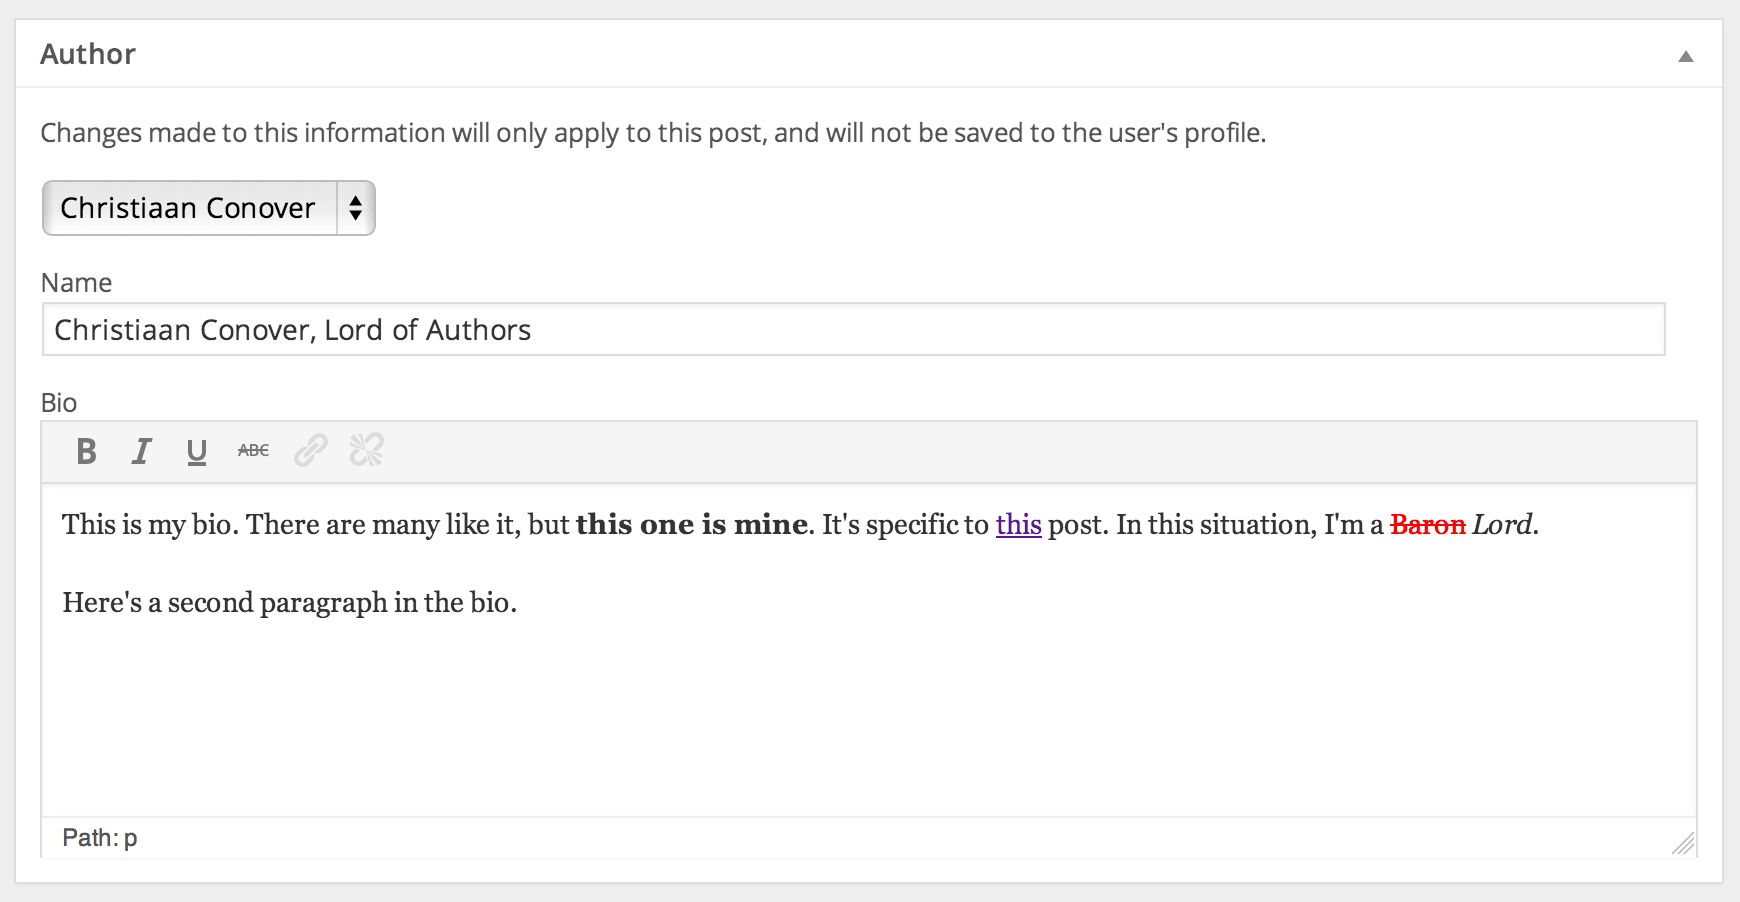
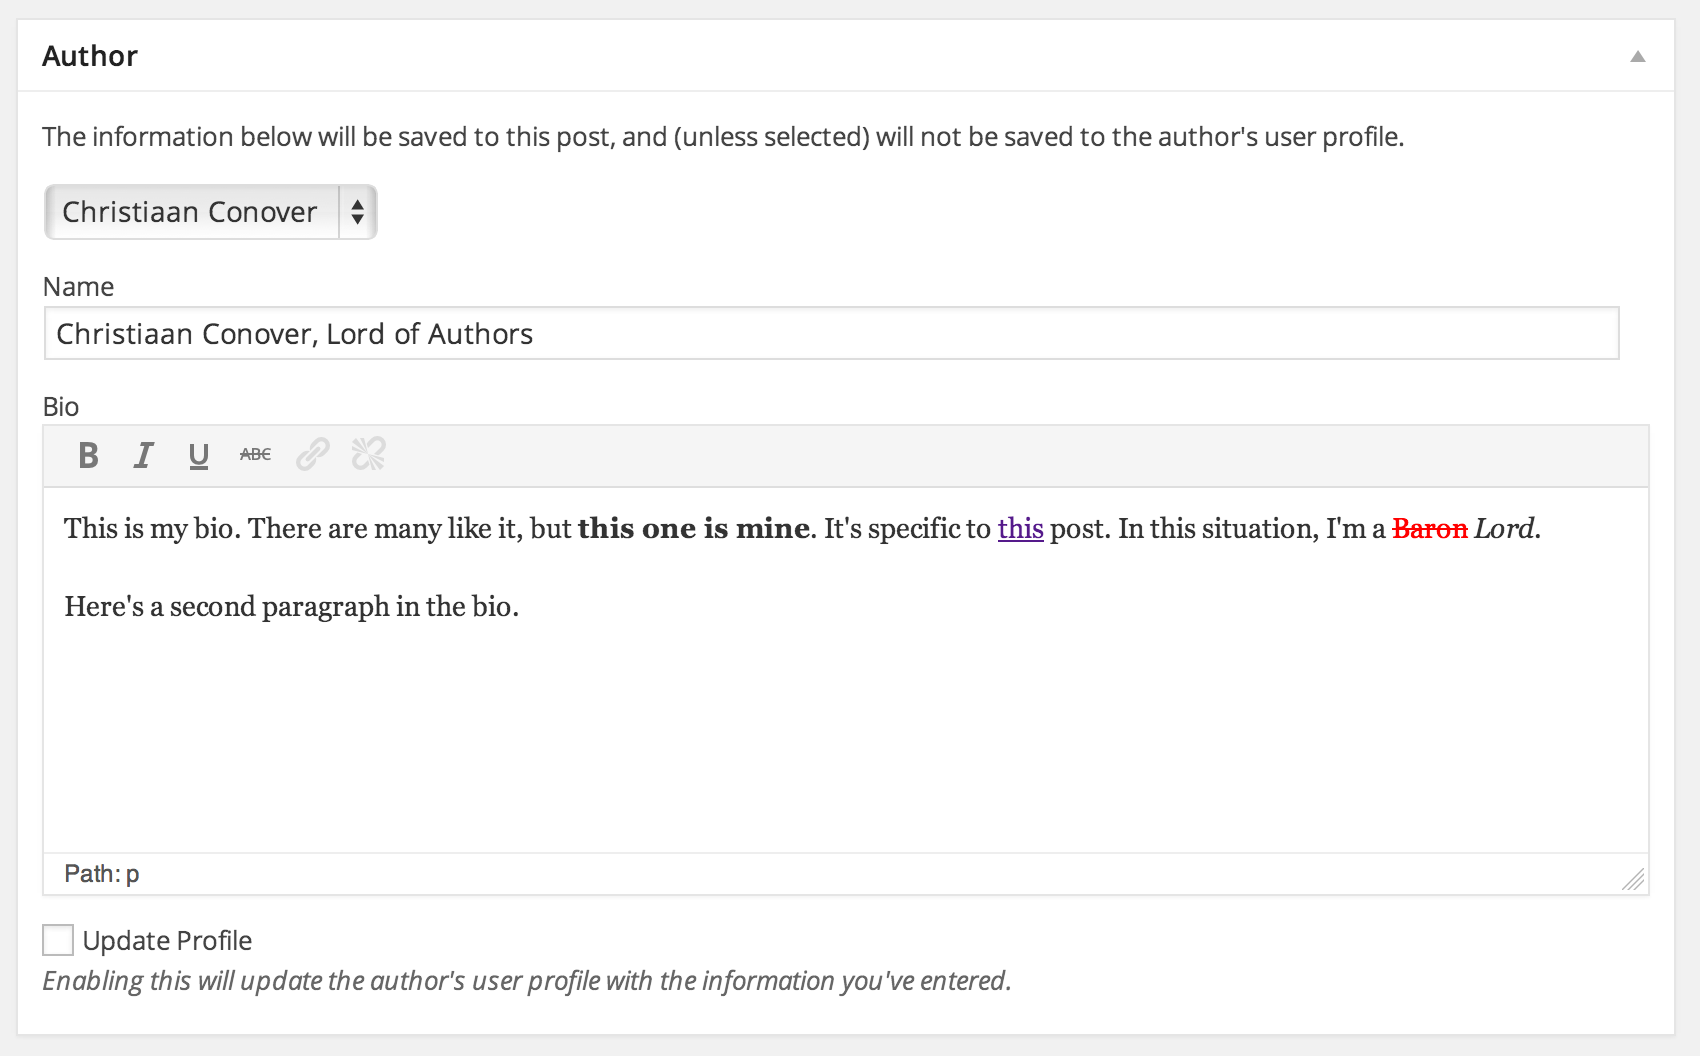
Update to version 0.2.0
git-svn-id: https://plugins.svn.wordpress.org/author-customization/trunk@821303 b8457f37-d9ea-0310-8a92-e5e31aec5664

diff --git a/admin/assets/js/edit-post.js b/admin/assets/js/edit-post.js
@@ -7,7 +7,7 @@ admin/includes/edit-post.php
 
 jQuery( document ).ready( function( $ ) { // Don't execute anything until the page is loaded
 	$( "#cc_author_postauthor" ).live( "change", function() { // If the author dropdown value is changed, execute the script
-		$( "#cc_author_postauthor_loading_img" ).show(); // Display the 'loading' spinner
+		$( ".cc_author_metabox .spinner" ).show(); // Display the 'loading' spinner
 		
 		/* Data to pass to the server. Called below during $.post() */
 		var data = {
@@ -33,7 +33,7 @@ jQuery( document ).ready( function( $ ) { // Don't execute anything until the pa
 					$( "#cc_author_meta\\[0\\]\\[description\\]" ).val( authormeta.description );	// Change the value of the author bio to the value received from the server
 				}
 				
-				$( "#cc_author_postauthor_loading_img" ).hide(); // Hide the 'loading' spinner
+				$( ".cc_author_metabox .spinner" ).hide(); // Hide the 'loading' spinner
 			} // function( jsonString )
 		); // $.post
 	}); // $( "#cc_author_postauthor" ).change()

diff --git a/admin/assets/css/edit-post.css b/admin/assets/css/edit-post.css
@@ -9,16 +9,16 @@
 	margin-bottom: 1em;
 }
 
+.cc_author_metabox .cc_author_meta_update_profile {
+	margin-top: 1em;
+}
+
 .cc_author_metabox input[type='text'],
 .cc_author_metabox textarea {
 	width: 98%;
 }
 
-.cc_author_postauthor_loading {
-	margin-left: 0.5em;
+.cc_author_metabox .spinner {
+	float: left;
 	vertical-align: middle;
-	display: inline;
-}
-.cc_author_postauthor_loading_img {
-	display: none;
 }

diff --git a/admin/includes/edit-post.php b/admin/includes/edit-post.php
@@ -43,20 +43,20 @@ function cc_author_add_metabox() {
 	
 	/* Add custom style for meta box */
 	wp_enqueue_style( // Add style call to <head>
-		'cc-author-metabox',
-		plugins_url(
-			'assets/css/edit-post.css',
-			dirname( __FILE__ )
-		)
+		'cc-author-metabox',														// Stylesheet hook name
+		plugins_url( 'assets/css/edit-post.css', dirname( __FILE__ ) ),				// URL for stylesheet
+		array(),																	// Style dependencies
+		$_ENV['cc_author_plugindata']['Version']									// Stylesheet version, equal to plugin version
 	);
 	
 	/* Add script for changing the post author */
 	wp_enqueue_script(																// Add JS to <head>
 		'cc-author-change-post-author',												// Registered script handle
-		plugins_url( 'assets/js/change-post-author.js', dirname( __FILE__ ) ),		// URL to script
+		plugins_url( 'assets/js/edit-post.js', dirname( __FILE__ ) ),				// URL to script
 		array(																		// Script dependencies
 			'jquery'
-		)
+		),
+		$_ENV['cc_author_plugindata']['Version']									// Script version, equal to plugin version
 	);
 	wp_localize_script(																// Localize script for AJAX calls
 		'cc-author-change-post-author',												// Name of script call being localized
@@ -89,21 +89,26 @@ function cc_author_metabox( $post ) {
 	/* Display the meta box contents */
 	?>
 	<div class="cc_author_metabox">
-		<p>Changes made to this information will only apply to this post, and will not be saved to the user's profile.</p>
+		<p>The information below will be saved to this post, and (unless selected) will not be saved to the author's user profile.</p>
 		<div style="color: #FF0000; font-weight: bold;"><noscript>
 				You have JavaScript disabled. If you change the post author in the dropdown, you will need to save the post for the fields below to update. Please enable JavaScript for a better experience.
 		</noscript></div>
 		<?php
 		if ( current_user_can( 'edit_others_posts' ) || current_user_can( 'edit_others_pages' ) ) { // Check the capabilities of the current user for sufficient privileges
-			wp_dropdown_users( array(
-				'name'			=> 'cc_author_postauthor', // Name for the form item
-				'id'			=> 'cc_author_postauthor', // Class for the form item
-				'selected'		=> $postauthorid // Select the post's author to be displayed by default
-			) );
 			?>
-			<div id="cc_author_postauthor_loading" class="cc_author_postauthor_loading"><img id="cc_author_postauthor_loading_img" class="cc_author_postauthor_loading_img" src="<?php echo admin_url( 'images/wpspin_light-2x.gif' ); ?>" width="20px" height="auto"></div>
-			<input type="hidden" name="cc_author_currentpostauthor" value="<?php echo $postauthorid; ?>">
-			<input type="hidden" name="cc_author_javascript" id="cc_author_javascript" value="">
+			<div id="cc_author_metabox_postauthor" class="cc_author_metabox_postauthor">
+			<?php
+				wp_dropdown_users( array(
+					'name'			=> 'cc_author_postauthor', // Name for the form item
+					'id'			=> 'cc_author_postauthor', // ID for the form item
+					'class'			=> 'cc_author_postauthor', // Class for the form item
+					'selected'		=> $postauthorid // Select the post's author to be displayed by default
+				) );
+				?>
+				<span class="spinner"></span>
+				<input type="hidden" name="cc_author_currentpostauthor" value="<?php echo $postauthorid; ?>">
+				<input type="hidden" name="cc_author_javascript" id="cc_author_javascript" value="">
+				</div><!-- #cc_author_metabox_postauthor -->
 			<?php
 		}
 		?>
@@ -115,6 +120,10 @@ function cc_author_metabox( $post ) {
 		$descEditor = new ccAuthorDescEditor( $cc_author_meta[0]['description'], 'cc_author_meta[0][description]' ); // Create the bio editor object
 		echo $descEditor->editor(); // Display the editor
 		?>
+		<div class="cc_author_meta_update_profile">
+			<input type="checkbox" name="cc_author_meta[0][update_profile]" id="cc_author_meta[0][update_profile]" value="Profile">Update Profile
+			<p class="description">Enabling this will update the author's user profile with the information you've entered.</p>
+		</div>
 	</div>
 	<?php
 } // cc_author_metabox( $post )
@@ -191,6 +200,19 @@ function cc_author_save_meta( $post_id ) {
 			'post_author'	=> $_POST['cc_author_postauthor'] // Use the post author ID from the dropdown
 		) );
 		add_action( 'save_post', 'cc_author_save_meta' ); // Re-add the 'save_post' hook after the post author is updated
+		
+		/* If 'Update Profile' is enabled, save the author info to the user profile of the author */
+		foreach ( $author as $authormeta ) {
+			foreach ( $authormeta as $key => $meta ) {
+				if ( isset( $authormeta['update_profile'] ) ) {
+					wp_update_user( array(
+						'ID'			=>	$_POST['cc_author_postauthor'],	// Author user ID
+						'display_name'	=>	$authormeta['display_name'],	// Display name
+						'description'	=>	$authormeta['description'],		// Biographical info
+					) );
+				} // if ( isset( $authormeta['update_profile'] ) )
+			} // foreach ( $authormeta as $key => $meta )
+		} // foreach ( $author as $authormeta )
 	}
 } // cc_author_save_meta( $post_id )
 add_action( 'save_post', 'cc_author_save_meta' ); // Hook WordPress to save meta data when saving post/page

diff --git a/author-customization.php b/author-customization.php
@@ -3,12 +3,21 @@
 Plugin Name: Author Customization
 Plugin URI: https://christiaanconover.com/code/wp-author-customization
 Description: Author Customization adds additional author management capabilities beyond the native user account structure. Save author data to each post, enable WYSIWYG editing of biographical info, and more.
-Version: 0.1.1
+Version: 0.2.0
 Author: Christiaan Conover
 Author URI: https://christiaanconover.com
 License: GPLv2
 */
 
+
+/**
+ * Plugin Environment Data
+ */
+/* Set plugin version data for use elsewhere in the plugin */
+$_ENV['cc_author_plugindata'] = array( 'Version' => '0.2.0' );
+/**
+ * End Plugin Environment Data
+ */
 
 /**
  * Author Info
